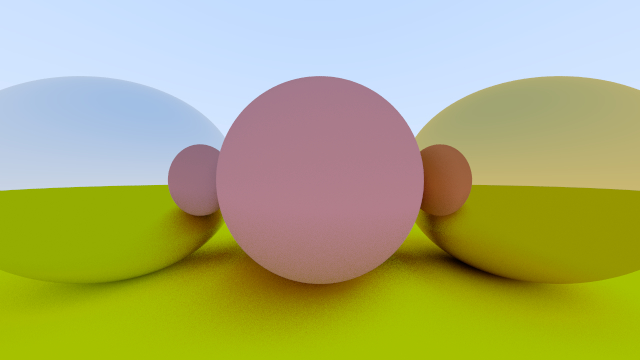
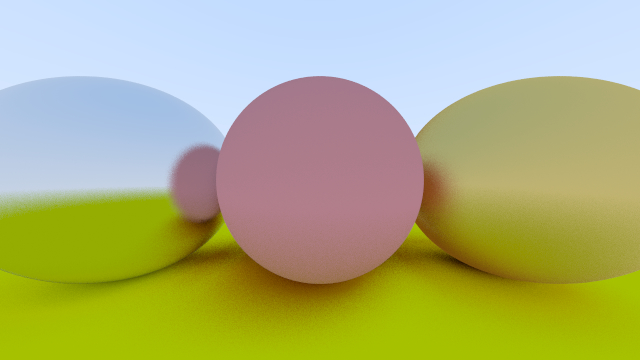
Add metal with fuzz material and update metal material properties

diff --git a/src/main.cc b/src/main.cc
@@ -32,8 +32,8 @@ int main() {
 
     auto MaterialGround = std::make_shared<ohtoai::math::Lambertian>(Color(0.8, 0.8, 0.0));
     auto MaterialCenter = std::make_shared<ohtoai::math::Lambertian>(Color(0.7, 0.3, 0.3));
-    auto MaterialLeft = std::make_shared<ohtoai::math::Metal>(Color(0.8, 0.8, 0.8));
-    auto MaterialRight = std::make_shared<ohtoai::math::Metal>(Color(0.8, 0.6, 0.2));
+    auto MaterialLeft = std::make_shared<ohtoai::math::Metal>(Color(0.8, 0.8, 0.8), 0.3);
+    auto MaterialRight = std::make_shared<ohtoai::math::Metal>(Color(0.8, 0.6, 0.2), 1.0);
 
     world.add(std::make_shared<Sphere>(ohtoai::math::make_point(0.0, -100.5, -1.0), 100.0, MaterialGround));
     world.add(std::make_shared<Sphere>(ohtoai::math::make_point(0.0, 0.0, -1.0), 0.5, MaterialCenter));

diff --git a/README.md b/README.md
@@ -8,6 +8,7 @@
 ## History
 |             Title             |                     Image                      |
 | ----------------------------- | ---------------------------------------------- |
+| Metal with fuzz               | ![](doc/img/metal_with_fuzz.png)               |
 | Metal and Lambertian material | ![](doc/img/metal_and_lambertian_material.png) |
 | Gama correction               | ![](doc/img/gama_correction.png)               |
 | Lambertian distribution       | ![](doc/img/lambertian_distribution.png)       |
